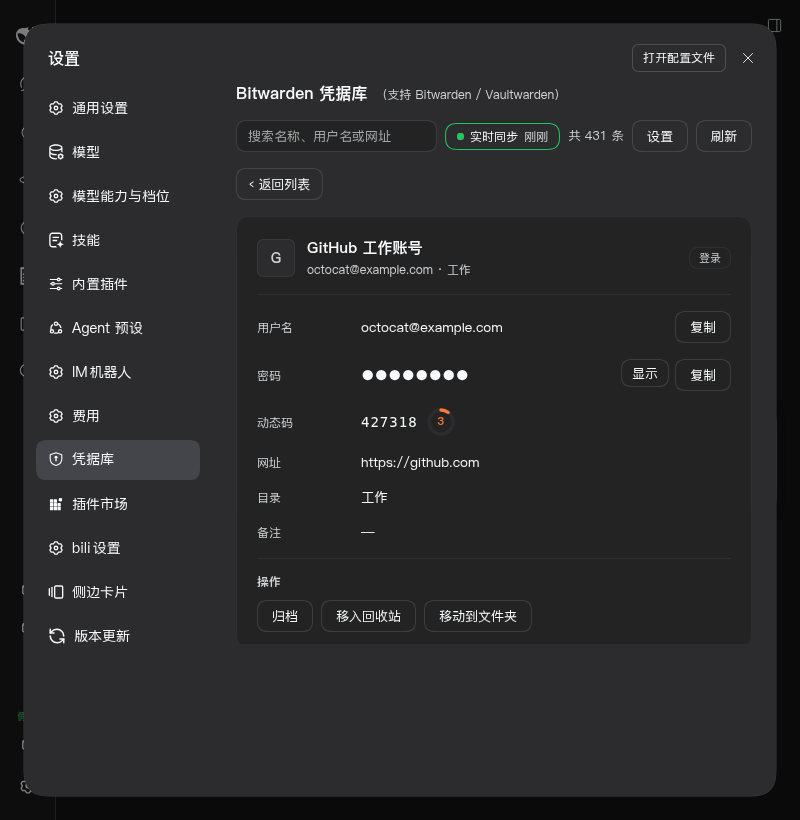
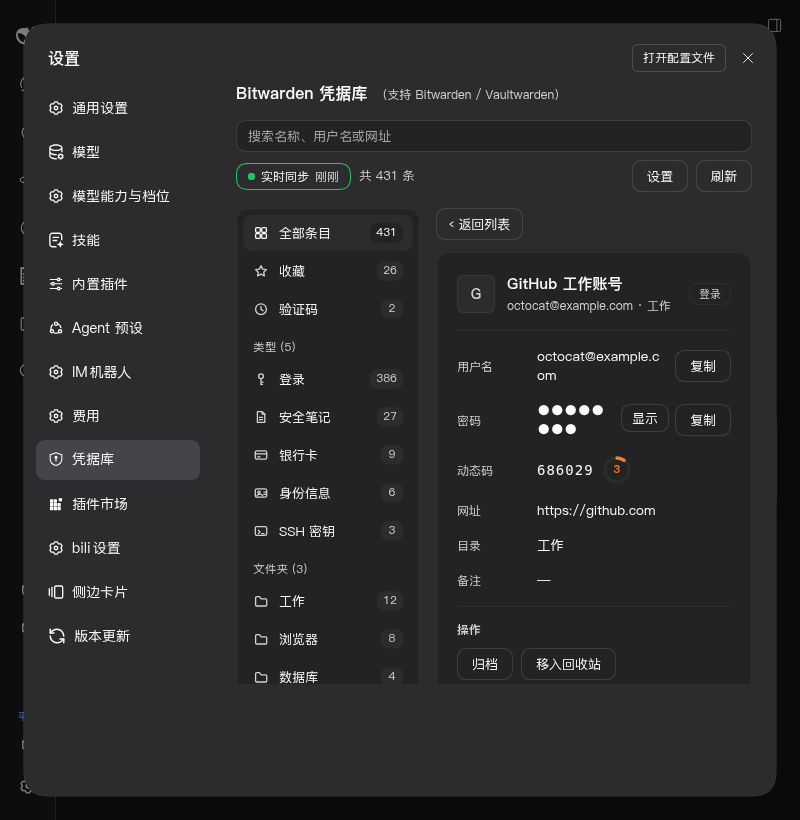
docs: v0.6.0 面板形态与断点说明、测试计数与截图刷新，版本推进到 0.6.0

diff --git a/CHANGELOG.md b/CHANGELOG.md
@@ -4,6 +4,32 @@ All notable changes to `dsh-vaultwarden` are documented here.
 The format follows [Keep a Changelog](https://keepachangelog.com/en/1.1.0/),
 and this project adheres to [Semantic Versioning](https://semver.org/spec/v2.0.0.html).
 
+## [0.6.0] — 2026-10-07
+
+面板改成 Bitwarden App 那样的层级分区菜单，加分区缓存、站点图标与桌面布局；宿主侧新增 `vw/overview`，`vw/list` 支持按分区取数。
+
+### 新增
+
+- **层级分区菜单**：左栏按 Bitwarden App 的组织方式列出**全部条目 / 收藏 / 验证码**三行，然后是「类型 (n)」（登录、安全笔记、银行卡、身份信息、SSH 密钥）与「文件夹 (n)」（各文件夹 + 未归类）两组，最后是「归档」「回收站」；每行右侧写明条数，当前分区带 `aria-current` 高亮。点一行即把列表切成那个分区。
+- **宿主侧分区取数**：新增 `vw/overview`（分区计数 + 类型/文件夹分组，一次取回侧栏要的全部数字；类型与文件夹都只数**未归档**的那半，因为分区读也只给这半——徽标不能承诺点进去看不到的行）；`vw/list` 增加 `section` / `sectionValue` 参数，由宿主先把整个库收窄到该分区的池子、再计数、再分页——侧栏上的数字和点进去看到的条目数因此永远一致，分页也只在该分区内翻。旧版做法（把整窗结果拿到前端过滤）会让计数与游标描述一个没人看见的列表。
+- **分区缓存**：切回刚离开的分区时，若该分区快照在 5 分钟内（`SECTION_CACHE_MS`）就直接重绘、**零 RPC**；首次进入某分区仍是「先画后拉」。搜索、刷新按钮与写操作一律绕过缓存。分页游标与「还有 N 条」状态随分区一起重置。同一份列表 memo 的键补上了分区（原先只有一个槽位，换分区会把上一区的行漏进下一区）。
+- **服务端站点图标**：列表行改用 Bitwarden 服务端已缓存的 favicon（`<serverUrl>/icons/<host>/icon.png`，服务器返回 `cache-control: immutable`）。图标通过 `<img>` 加载——面板里 `fetch()` 会被宿主的 URL 白名单挡掉；加载失败或像素小于 24px 的行退回原来的首字母圆枕（纯数字名如 IP 不会退化成同一个「1」）。
+- **验证码分区行**：进入「验证码」分区后，每行是 App 的形态——图标 + 名称 + 用户名 + 30px 倒计时圆环 + 分组的 6 位动态码（`686 029`）+ 复制按钮；点码复制而不会打开条目，动态码只在画出来的这几行里每秒请求。
+
+### 变更
+
+- **桌面布局：侧栏常驻 + 内容区单栏**。打开条目时列表让位给详情（列表上方留「‹ 返回列表」），侧栏始终可见，不再是手机式的「点进去换屏」。
+- **断点改用 CSS 容器查询**（`@container vw-panel`）：宿主设置弹窗宽度固定在 800px（其中约 280px 是宿主的设置导航），面板自己只拿到 ~560px——按窗口宽度判断会永远判成「桌面」，把 377px 的内容列再拆两半，两边都窄到读不出一行值。现在断点跟着**面板自身**的宽度走：`<480px` 侧栏才搬到顶部、钻取时藏侧栏，`<620px` 字段标签列从 92px 收到 72px。不支持容器查询的浏览器回退到 `@supports not (container-type: inline-size)` + 760px 窗口断点。
+- 面板主区从「列表 + 详情两列并排」改为内容列内切换（`S.split` 单轨），删除不再使用的 `splitAlone` 与死样式 `panelBody`。
+- 侧栏 184px（`minmax(150px, 184px)`），内容列吃满剩下的宽度——宿主弹窗就这么宽，先保证两栏都读得出来。
+- 老宿主降级：`vw/overview` 不可用时侧栏只渲染「全部条目」一行，列表与搜索照常工作。
+
+### 测试
+
+- `test/client-card.test.mjs` 217 → 225 项：新增侧栏分区导航（分区行与计数、分组标题、`aria-current`、进入分区时 `section`/`sectionValue` 真的传到 RPC、**切回命中快照零 RPC**、老宿主只剩「全部条目」一行）、服务端图标（命中出 `<img>` 且 `src` 正确、`none` 退回字母圆枕）、验证码分区行（3+3 分组、圆环、复制按钮）等断言；回收站条目改为从侧栏进入；`makeRpc` 增加 `vw/overview` 路由并让 `list` 按分区取池。
+- `test/mock-e2e.test.mjs` 42 → 54 项：新增侧栏分区段（计数、分区读与 `overview.types` 一致、memo 不跨分区漏行）。
+- `test/gateway-flow.test.mjs` 67 → 73 项：新增分区读（类型/文件夹/未归类/回收站四种 `section` 真的收窄池子、归档行不出现在任何分区读里）与「徽标数与分区读数一致」的断言；`test/host-entry.test.mjs` 的线面方法白名单增至 20 个。
+- 十三套离线测试共 637 项全部通过。
 ## [0.5.3] — 2026-10-07
 
 把动态码那行的 30 秒横条换成会缩短的圆环，并按剩余时间连续换色。
